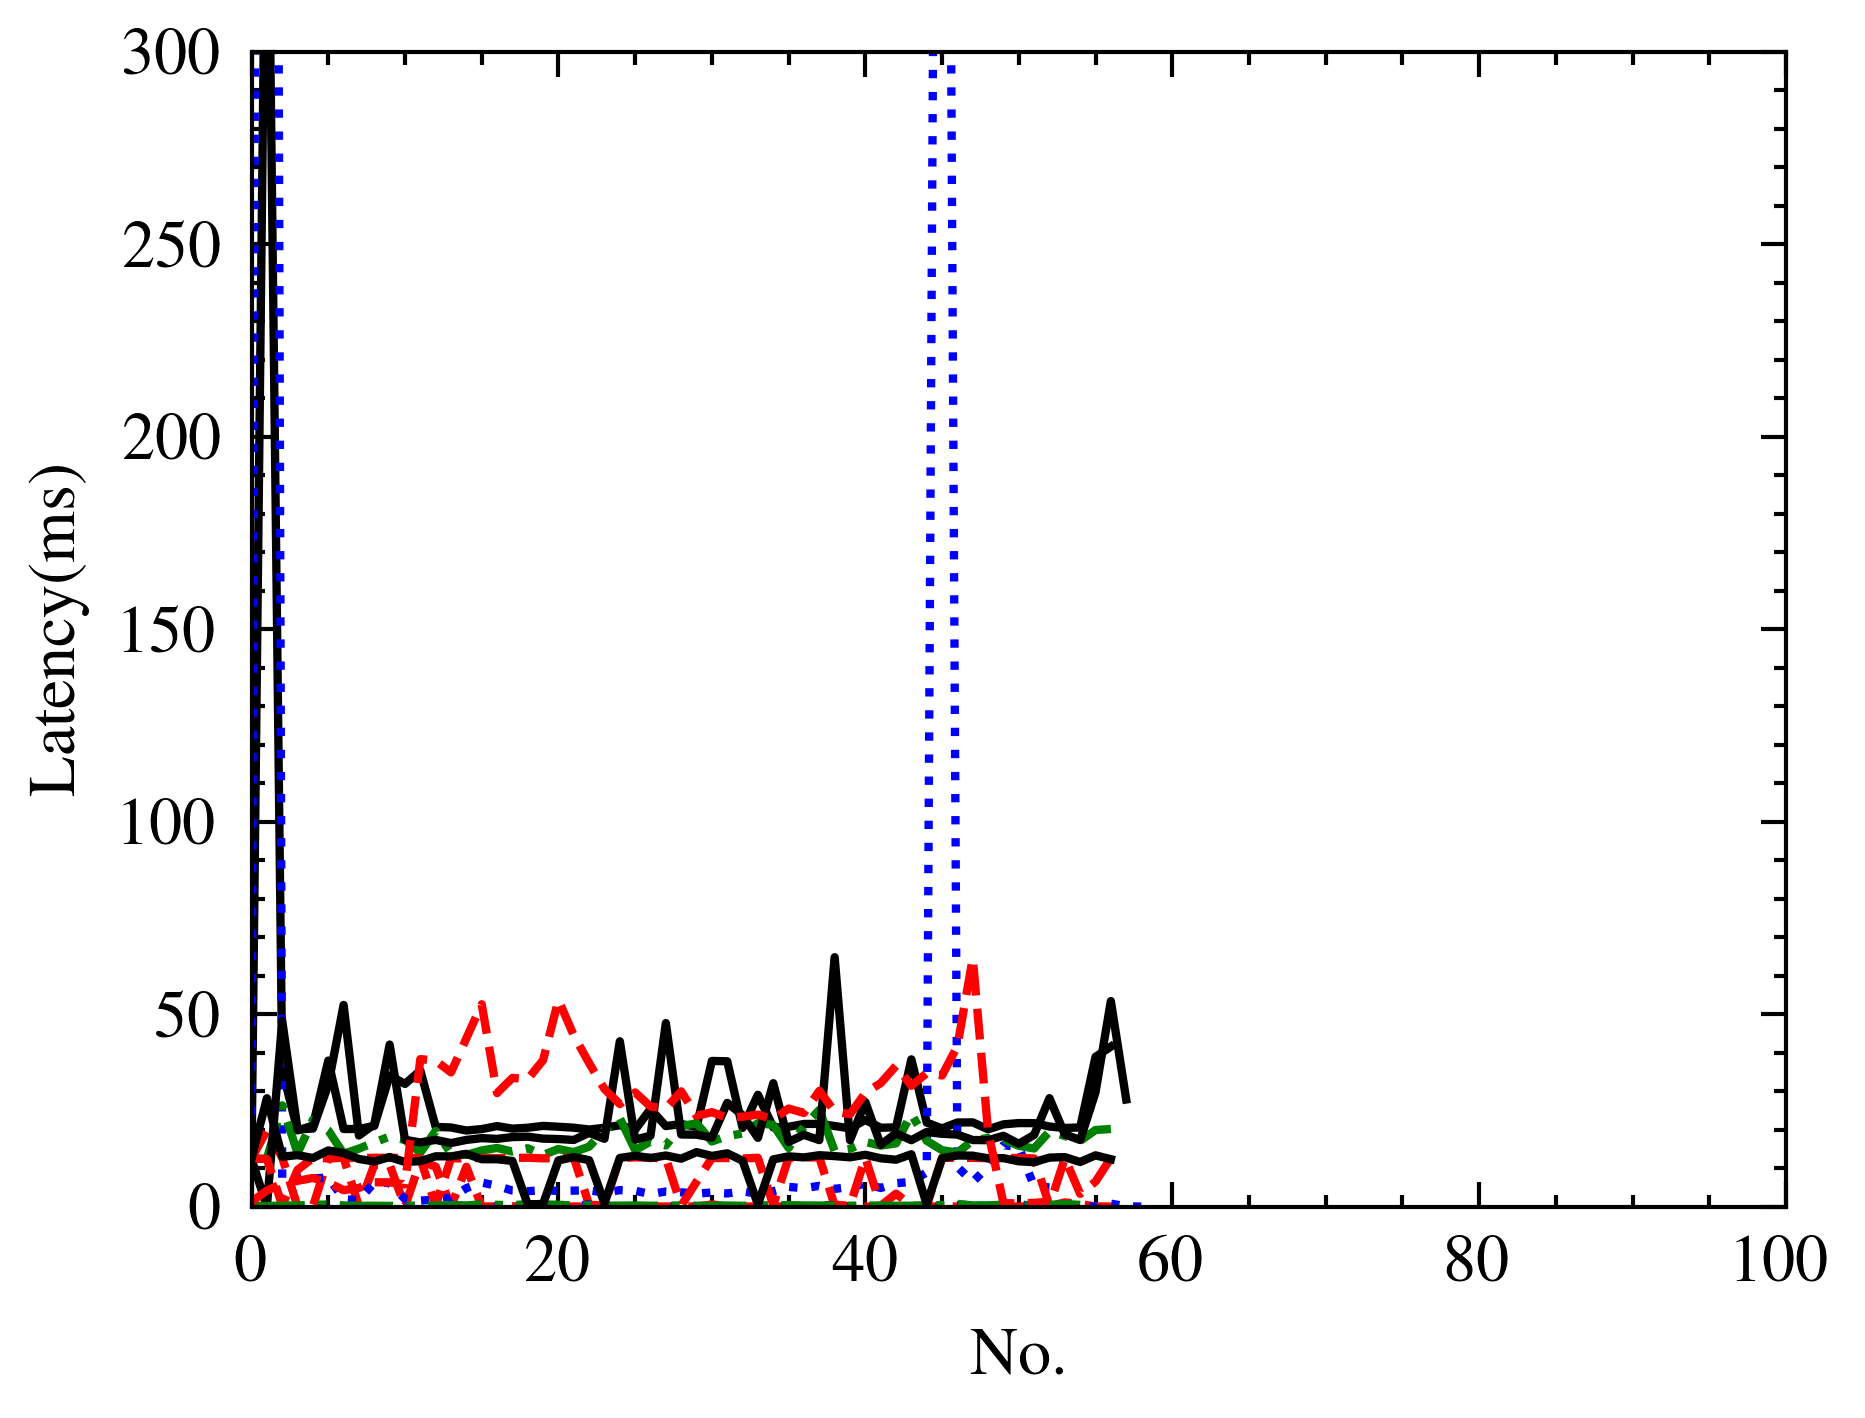
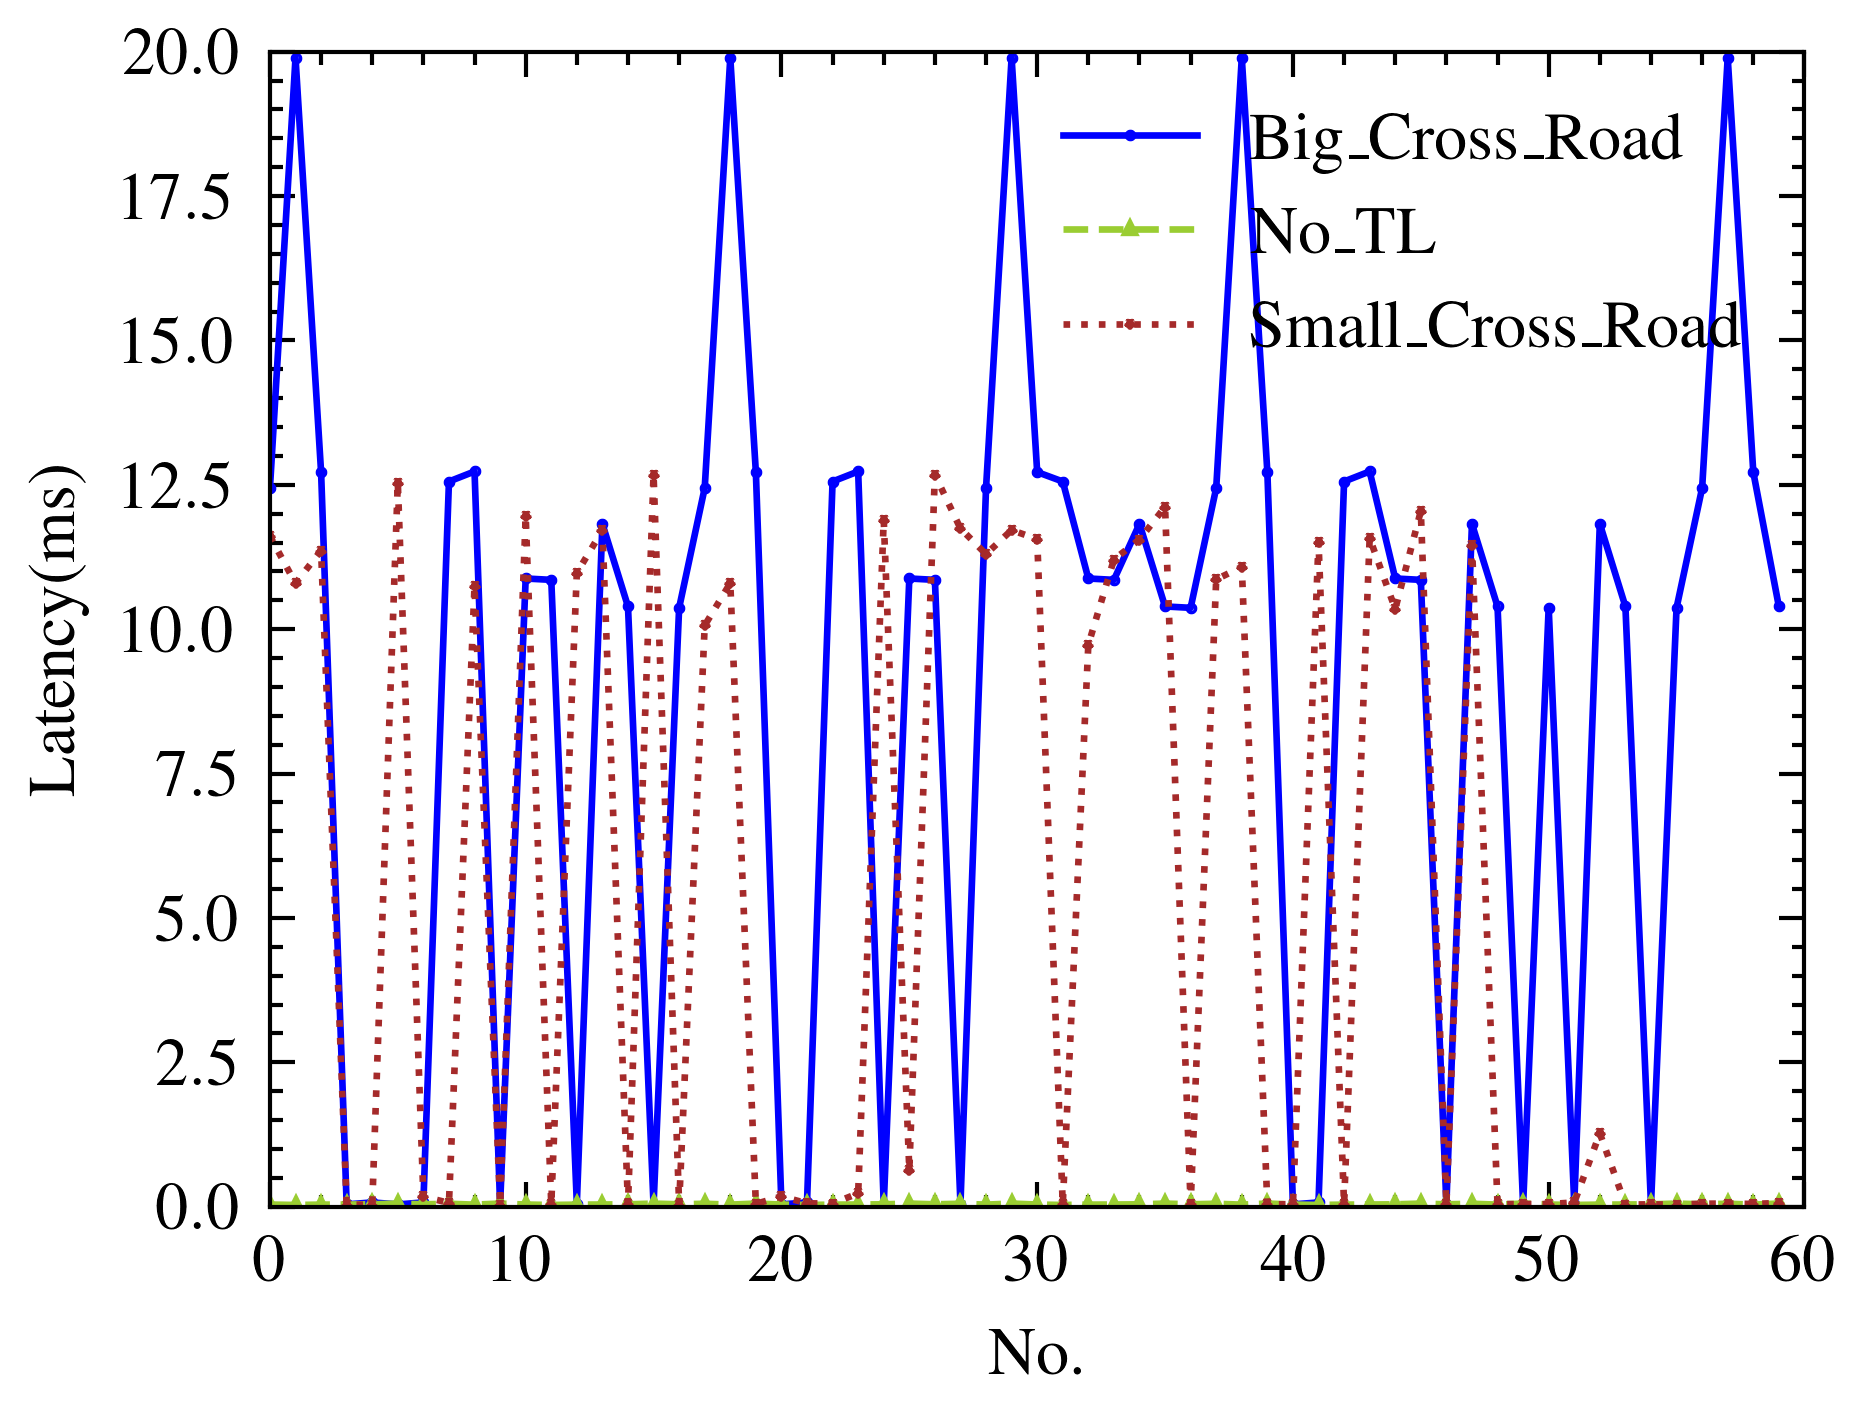
[Yuting] unified launch scripts

diff --git a/um_dev/profiling/analyse/data_visualization.py b/um_dev/profiling/analyse/data_visualization.py
@@ -43,19 +43,18 @@ def plot_data(results):
   idx = 0
   for task_name, data_list in results.items():
     data = np.array(data_list)
-    # data = np.log(data)
     plt.plot(range(len(data_list)), data,
-             # color=COLORS[idx % len(COLORS)],
-             # label=task_name,
-             # marker=MARKERS[idx % len(MARKERS)],
-             # linewidth=0.8,
-             # markersize=0.8
+             color=COLORS[idx % len(COLORS)],
+             label=task_name,
+             marker=MARKERS[idx % len(MARKERS)],
+             linewidth=0.8,
+             markersize=0.8
              )
     plt.ylabel("Latency(ms)")
     plt.xlabel("No.")
     idx += 1
   plt.legend()
-  plt.axis([0, 100, 0, 300])
+  plt.axis([0, 60, 0, 20])
   plt.savefig("result.png")
   plt.show()
 
@@ -93,7 +92,8 @@ def plot_comparative(result1, result2):
 
 
 if __name__ == "__main__":
-  result_solo = load_data_from_dir("/home/tt/Codes/apollo/um_dev/profiling/results/lgsvl_4_2_crash_case_solo_mode")
+  # result_solo = load_data_from_dir("/home/tt/Codes/apollo/um_dev/profiling/results/lgsvl_4_2_crash_case_solo_mode")
   # plot_data(results)
-  result_whole = load_data_from_dir("/home/tt/Codes/apollo/um_dev/profiling/results/lgsvl_4_2_crash_case_whole_mode")
-  plot_comparative(result_solo, result_whole)
+  # result_whole = load_data_from_dir("/home/tt/Codes/apollo/um_dev/profiling/results/lgsvl_4_2_crash_case_whole_mode")
+  tl_result = load_data_from_dir("/home/tt/Codes/apollo/um_dev/profiling/results/traffic_lights_comparative")
+  plot_data(tl_result)

diff --git a/um_dev/profiling/task_map/visualize.py b/um_dev/profiling/task_map/visualize.py
@@ -1,0 +1,35 @@
+'''
+Visualize apollo task graph
+Yuting
+2022.4.24
+'''
+
+from analyze import load_map, build_graph
+import networkx as nx
+import matplotlib.pyplot as plot
+import numpy as np
+
+def build_nx_graph(adj_list):
+  G = nx.DiGraph()
+  edges = []
+  for node in adj_list:
+    for nxt in node["out"]:
+      edges.append((node["name"].replace("Component", " "),
+                    nxt.replace("Component", " ")))
+  G.add_edges_from(edges)
+
+  fig = plot.gcf()
+  fig.set_size_inches(8.5, 8.5)
+  colors = ['r'] * len(G.nodes)
+  nx.draw_networkx(G, pos=nx.spring_layout(G), node_color=colors)
+  plot.tick_params(labelbottom='off', labelleft='off')
+  plot.axis('off')
+  plot.subplots_adjust(top=1, bottom=0, left=0, right=1, hspace=0, wspace=0)
+  plot.savefig('component_graph.png', dpi=100)
+  plot.show()
+
+
+if __name__ == "__main__":
+  nodes, channels = load_map("component_map.txt")
+  adj_list = build_graph(nodes)
+  build_nx_graph(adj_list)
